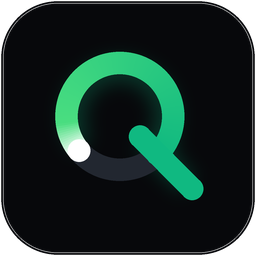
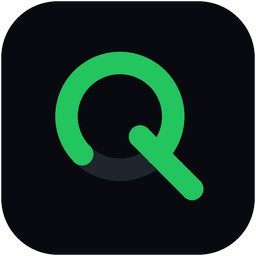
style(branding): remove glossy highlight and gradient, enforce clean minimal vector mark

diff --git a/scripts/generate_favicons.py b/scripts/generate_favicons.py
@@ -1,32 +1,31 @@
 import math
 from pathlib import Path
-from PIL import Image, ImageDraw, ImageFilter
+from PIL import Image, ImageDraw
 
 ROOT = Path(__file__).resolve().parent.parent
 STATIC = ROOT / "static"
 MEDIA = ROOT / "apps" / "vscode-extension" / "media"
 DOCS = ROOT / "docs"
 
-def render_designer_icon(size: int, supersample: int = 4) -> Image.Image:
+def render_ultra_minimal(size: int, supersample: int = 4) -> Image.Image:
     dim = size * supersample
     
-    # Base Squircle Layer
-    base_layer = Image.new("RGBA", (dim, dim), (0, 0, 0, 0))
-    b_draw = ImageDraw.Draw(base_layer)
+    # Base transparent canvas
+    img = Image.new("RGBA", (dim, dim), (0, 0, 0, 0))
+    draw = ImageDraw.Draw(img)
     radius = int(dim * 0.225)
     
-    # 1. Solid opaque Obsidian tile: #07080B
-    b_draw.rounded_rectangle([0, 0, dim - 1, dim - 1], radius=radius, fill=(7, 8, 11, 255))
+    # 1. Solid opaque Obsidian tile: #090a0f
+    draw.rounded_rectangle([0, 0, dim - 1, dim - 1], radius=radius, fill=(9, 10, 15, 255))
     
-    # Outer hairline bezel
+    # 2. Minimal hairline border
     border_w = max(2, int(dim * 0.005))
-    b_draw.rounded_rectangle([0, 0, dim - 1, dim - 1], radius=radius,
-                             outline=(255, 255, 255, 26), width=border_w)
-    
-    # Inner rim (high-precision double bezel)
-    inner_inset = int(dim * 0.012)
-    b_draw.rounded_rectangle([inner_inset, inner_inset, dim - 1 - inner_inset, dim - 1 - inner_inset],
-                             radius=radius - inner_inset, outline=(255, 255, 255, 9), width=max(1, border_w // 2))
+    draw.rounded_rectangle(
+        [0, 0, dim - 1, dim - 1],
+        radius=radius,
+        outline=(255, 255, 255, 20),
+        width=border_w,
+    )
 
     # Center & Geometry (proportional bold geometry)
     cx = dim * 0.468
@@ -34,73 +33,39 @@ def render_designer_icon(size: int, supersample: int = 4) -> Image.Image:
     r = dim * 0.252
     stroke_w = int(dim * 0.088)
     r_mid = r - stroke_w / 2
-
-    # 2. Emissive Ambient Aura (Dark-field glow, zero gloss)
-    glow_layer = Image.new("RGBA", (dim, dim), (0, 0, 0, 0))
-    g_draw = ImageDraw.Draw(glow_layer)
     track_bbox = [cx - r, cy - r, cx + r, cy + r]
-    glow_w = stroke_w + int(dim * 0.05)
-    g_draw.arc(track_bbox, start=135, end=45, fill=(16, 185, 129, 65), width=glow_w)
-    
-    tail_s = (cx + r_mid * 0.38, cy + r_mid * 0.38)
-    tail_e = (cx + r_mid * 1.36, cy + r_mid * 1.36)
-    g_draw.line([tail_s, tail_e], fill=(16, 185, 129, 65), width=glow_w)
-    glow_blurred = glow_layer.filter(ImageFilter.GaussianBlur(radius=int(dim * 0.042)))
-    base_layer.alpha_composite(glow_blurred)
 
-    # 3. Graphic Mark Layer
-    mark_layer = Image.new("RGBA", (dim, dim), (0, 0, 0, 0))
-    m_draw = ImageDraw.Draw(mark_layer)
+    # 3. Inactive Track (Clean dark graphite ring #1f242d, completely flat)
+    draw.arc(track_bbox, start=0, end=360, fill=(31, 36, 45, 255), width=stroke_w)
 
-    # Inactive Track (Dark graphite precision scale #222730)
-    m_draw.arc(track_bbox, start=0, end=360, fill=(34, 39, 48, 255), width=stroke_w)
+    # 4. Active Quota Arc (Pure vibrant Emerald #22c55e, 100% solid, NO GLOSS, NO WHITE SPOT)
+    emerald = (34, 197, 94, 255)
+    draw.arc(track_bbox, start=135, end=45, fill=emerald, width=stroke_w)
 
-    # Active Quota Arc (Precision emerald sweep with smooth angular color transition)
+    # Precision rounded endcaps on the active arc
     cap_r = stroke_w / 2
-    steps = 120
-    start_deg = 140
-    total_span = 265
-    for i in range(steps):
-        deg1 = (start_deg + (i * total_span) / steps) % 360
-        deg2 = (start_deg + ((i + 1.2) * total_span) / steps) % 360
-        progress = i / steps
-        
-        if progress < 0.12: # Leading white node fading into mint
-            t = progress / 0.12
-            cr = int(255 - t * (255 - 74))
-            cg = int(255 - t * (255 - 222))
-            cb = int(255 - t * (255 - 128))
-        else: # Mint to emerald
-            t = (progress - 0.12) / 0.88
-            cr = int(74 - t * (74 - 16))
-            cg = int(222 - t * (222 - 185))
-            cb = int(128 - t * (128 - 129))
-            
-        color = (cr, cg, cb, 255)
-        m_draw.arc(track_bbox, start=deg1, end=deg2, fill=color, width=stroke_w)
+    # Start cap at 135 deg
+    x_135 = cx + r_mid * math.cos(math.radians(135))
+    y_135 = cy + r_mid * math.sin(math.radians(135))
+    draw.ellipse([x_135 - cap_r, y_135 - cap_r, x_135 + cap_r, y_135 + cap_r], fill=emerald)
 
-    # Rounded end cap at 140 deg (Pure White focal pip)
-    x_140 = cx + r_mid * math.cos(math.radians(140))
-    y_140 = cy + r_mid * math.sin(math.radians(140))
-    m_draw.ellipse([x_140 - cap_r, y_140 - cap_r, x_140 + cap_r, y_140 + cap_r], fill=(255, 255, 255, 255))
-
-    # Rounded end cap at 45 deg (Emerald)
+    # End cap at 45 deg
     x_45 = cx + r_mid * math.cos(math.radians(45))
     y_45 = cy + r_mid * math.sin(math.radians(45))
-    emerald_end = (16, 185, 129, 255)
-    m_draw.ellipse([x_45 - cap_r, y_45 - cap_r, x_45 + cap_r, y_45 + cap_r], fill=emerald_end)
+    draw.ellipse([x_45 - cap_r, y_45 - cap_r, x_45 + cap_r, y_45 + cap_r], fill=emerald)
 
-    # Diagonal Q-Spur (Engineered Capsule)
-    m_draw.line([tail_s, tail_e], fill=emerald_end, width=stroke_w)
-    m_draw.ellipse([tail_s[0]-cap_r, tail_s[1]-cap_r, tail_s[0]+cap_r, tail_s[1]+cap_r], fill=emerald_end)
-    m_draw.ellipse([tail_e[0]-cap_r, tail_e[1]-cap_r, tail_e[0]+cap_r, tail_e[1]+cap_r], fill=emerald_end)
+    # 5. Diagonal Q-Tail Spur (Solid engineered capsule at 45 degrees, matching emerald)
+    tail_s = (cx + r_mid * 0.38, cy + r_mid * 0.38)
+    tail_e = (cx + r_mid * 1.36, cy + r_mid * 1.36)
+    draw.line([tail_s, tail_e], fill=emerald, width=stroke_w)
+    draw.ellipse([tail_s[0] - cap_r, tail_s[1] - cap_r, tail_s[0] + cap_r, tail_s[1] + cap_r], fill=emerald)
+    draw.ellipse([tail_e[0] - cap_r, tail_e[1] - cap_r, tail_e[0] + cap_r, tail_e[1] + cap_r], fill=emerald)
 
-    base_layer.alpha_composite(mark_layer)
-    return base_layer.resize((size, size), Image.Resampling.LANCZOS)
+    return img.resize((size, size), Image.Resampling.LANCZOS)
 
 def main():
     sizes = [16, 32, 48, 64, 128, 180, 256]
-    icons = {s: render_designer_icon(s) for s in sizes}
+    icons = {s: render_ultra_minimal(s) for s in sizes}
 
     # 1. Favicon 32x32 PNG (The source of truth)
     STATIC.mkdir(parents=True, exist_ok=True)
